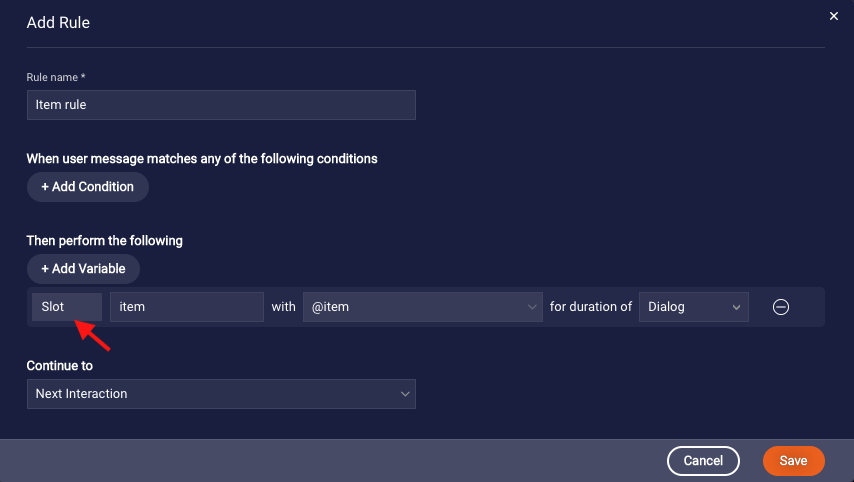
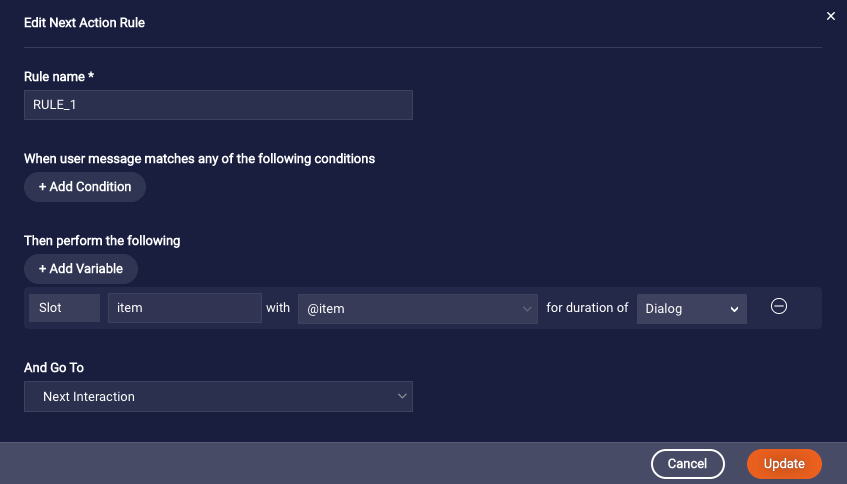
Update topic for Dialog Editor 2.0

diff --git a/pages/documents/ConversationalAI/ConversationBuilder/variablesAndSlots.md b/pages/documents/ConversationalAI/ConversationBuilder/variablesAndSlots.md
@@ -85,7 +85,7 @@ Slot-filling becomes especially useful when mining the entities that make up a u
 
 1. Create a [new dialog](conversation-builder-dialogs-dialog-basics.html#create-a-new-dialog) and associate an [intent from your domain](conversation-builder-intent-builder-overview.html) as the dialog starter. For this example we will create the dialog `ordering` with the domain intent `order item`.
 2. Now, devise a few [entities](intent-builder-entities.html) that will be captured in our intent. For this example, we are going to create an entity for `color` with the values `blue, white, and red`, one for `item` with `pants, shoes, shirt, underwear`. and finally, one for `size` with the values `small, medium, and large`. Before moving on, [update and train](intent-builder-domains.html#train-a-liveperson-nlu-v2-domain) the `order item` intent with some representative training phrases that contain these entities.
-3. Next we will create the [questions](conversation-builder-interactions-questions.html#types-of-questions) our dialog will ask. You should add one question interaction per slot that you are looking to fill. Using [Assist](conversation-builder-nlu-assist.html#assigning-an-intent-to-an-interaction), assign your entities to the relevant questions.
+3. Next we will create the [questions](conversation-builder-interactions-questions.html#types-of-questions) our dialog will ask. You should add one question interaction per slot that you are looking to fill. Using [Assist](conversation-builder-nlu-assist.html#assigning-an-intent-to-an-interaction), assign your entities to the relevant questions, for example:
 
     <img style="width:900px" class="fancyimage" src="img/ConvoBuilder/variables_and_slots/slot_nluassist.png">
 
@@ -97,7 +97,7 @@ Slot-filling becomes especially useful when mining the entities that make up a u
 
     <img style="width:600px" class="fancyimage" src="img/ConvoBuilder/variables_and_slots/slot_questions3.png">
 
-4. In the [rule](conversation-builder-interactions-configuration-next-action.html#custom-rules) for each question, we will create a slot variable that contains our slot variable (`item`) and whose value is the entity value (`@item`). Repeat this for every question in our dialog, and associate it with the entity that most closely matches the subject of the question.
+    When you assign an entity to a question, this automatically creates a rule for each question. Each rule creates a slot that contains our slot variable (e.g., `item`) and whose value is the entity value (e.g., `@item`).
 
     <img style="width:800px" class="fancyimage" src="img/ConvoBuilder/variables_and_slots/slot_fill.png">
 
